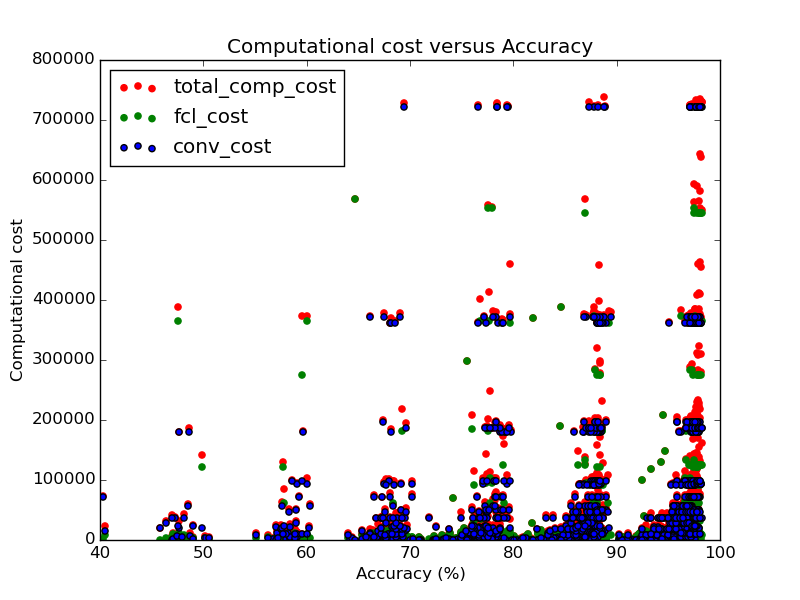
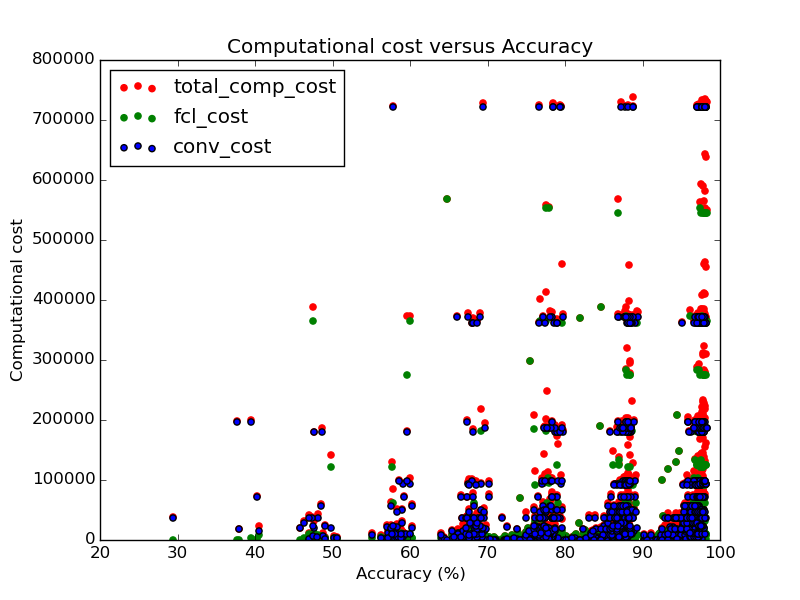
Changed the combined plot

diff --git a/mnist/plot_acc_combined.py b/mnist/plot_acc_combined.py
@@ -46,7 +46,7 @@ plt.scatter(x,y, color='red', label = 'total_comp_cost')
 plt.scatter(x,y2, color='green', label = 'fcl_cost')
 plt.scatter(x,y3, label = 'conv_cost')
 plt.ylim([0,800000])
-plt.xlim([40,100])
+plt.xlim([20,100])
 plt.xlabel("Accuracy (%)")
 plt.legend(loc = 'upper left')
 plt.ylabel("Computational cost")
